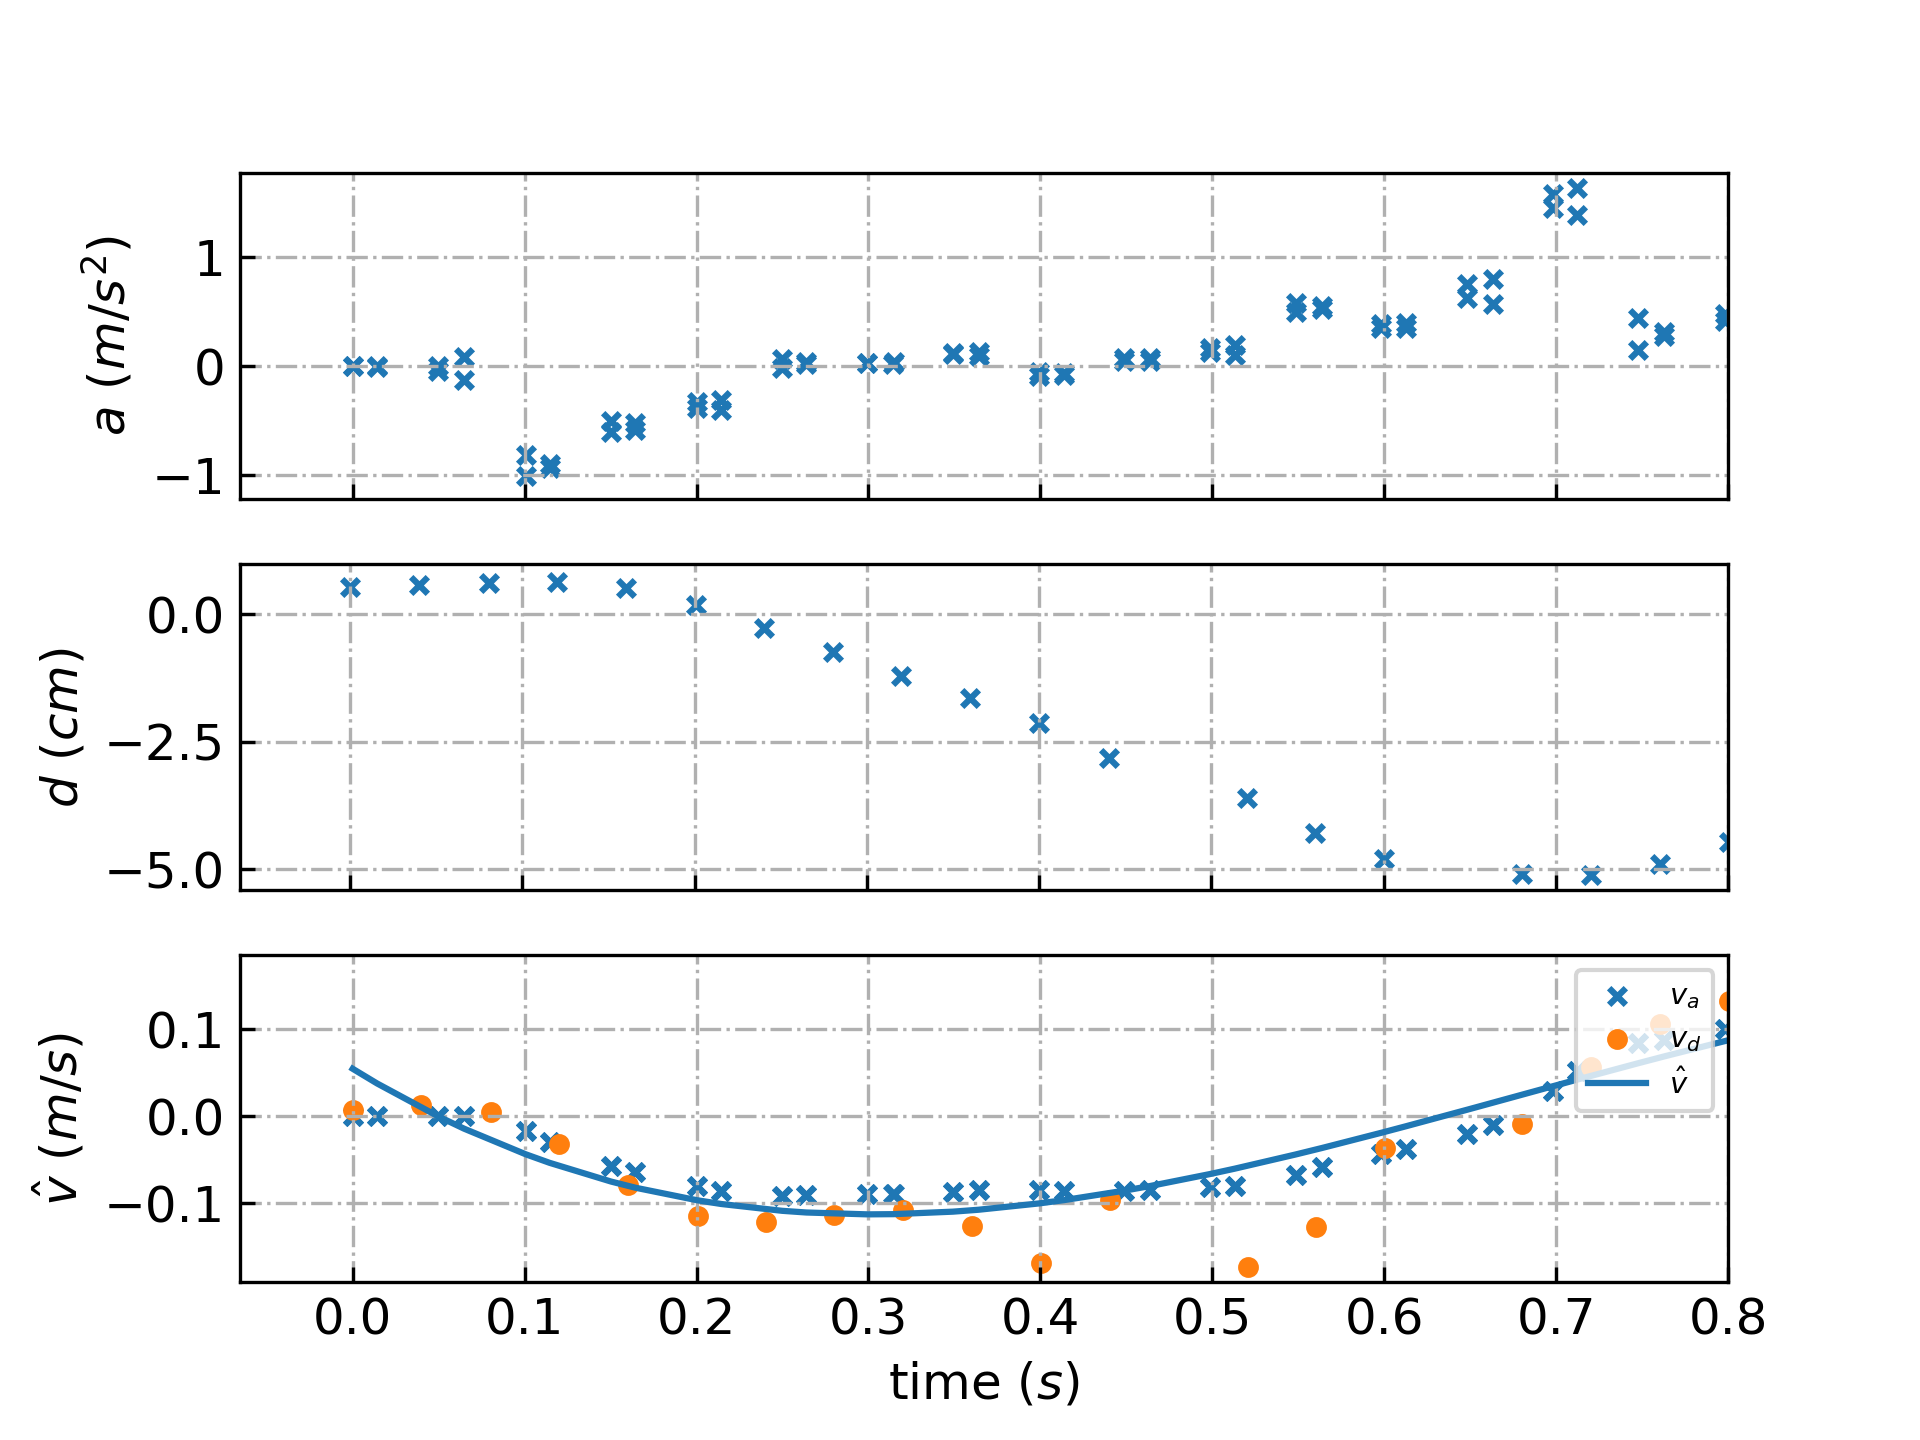
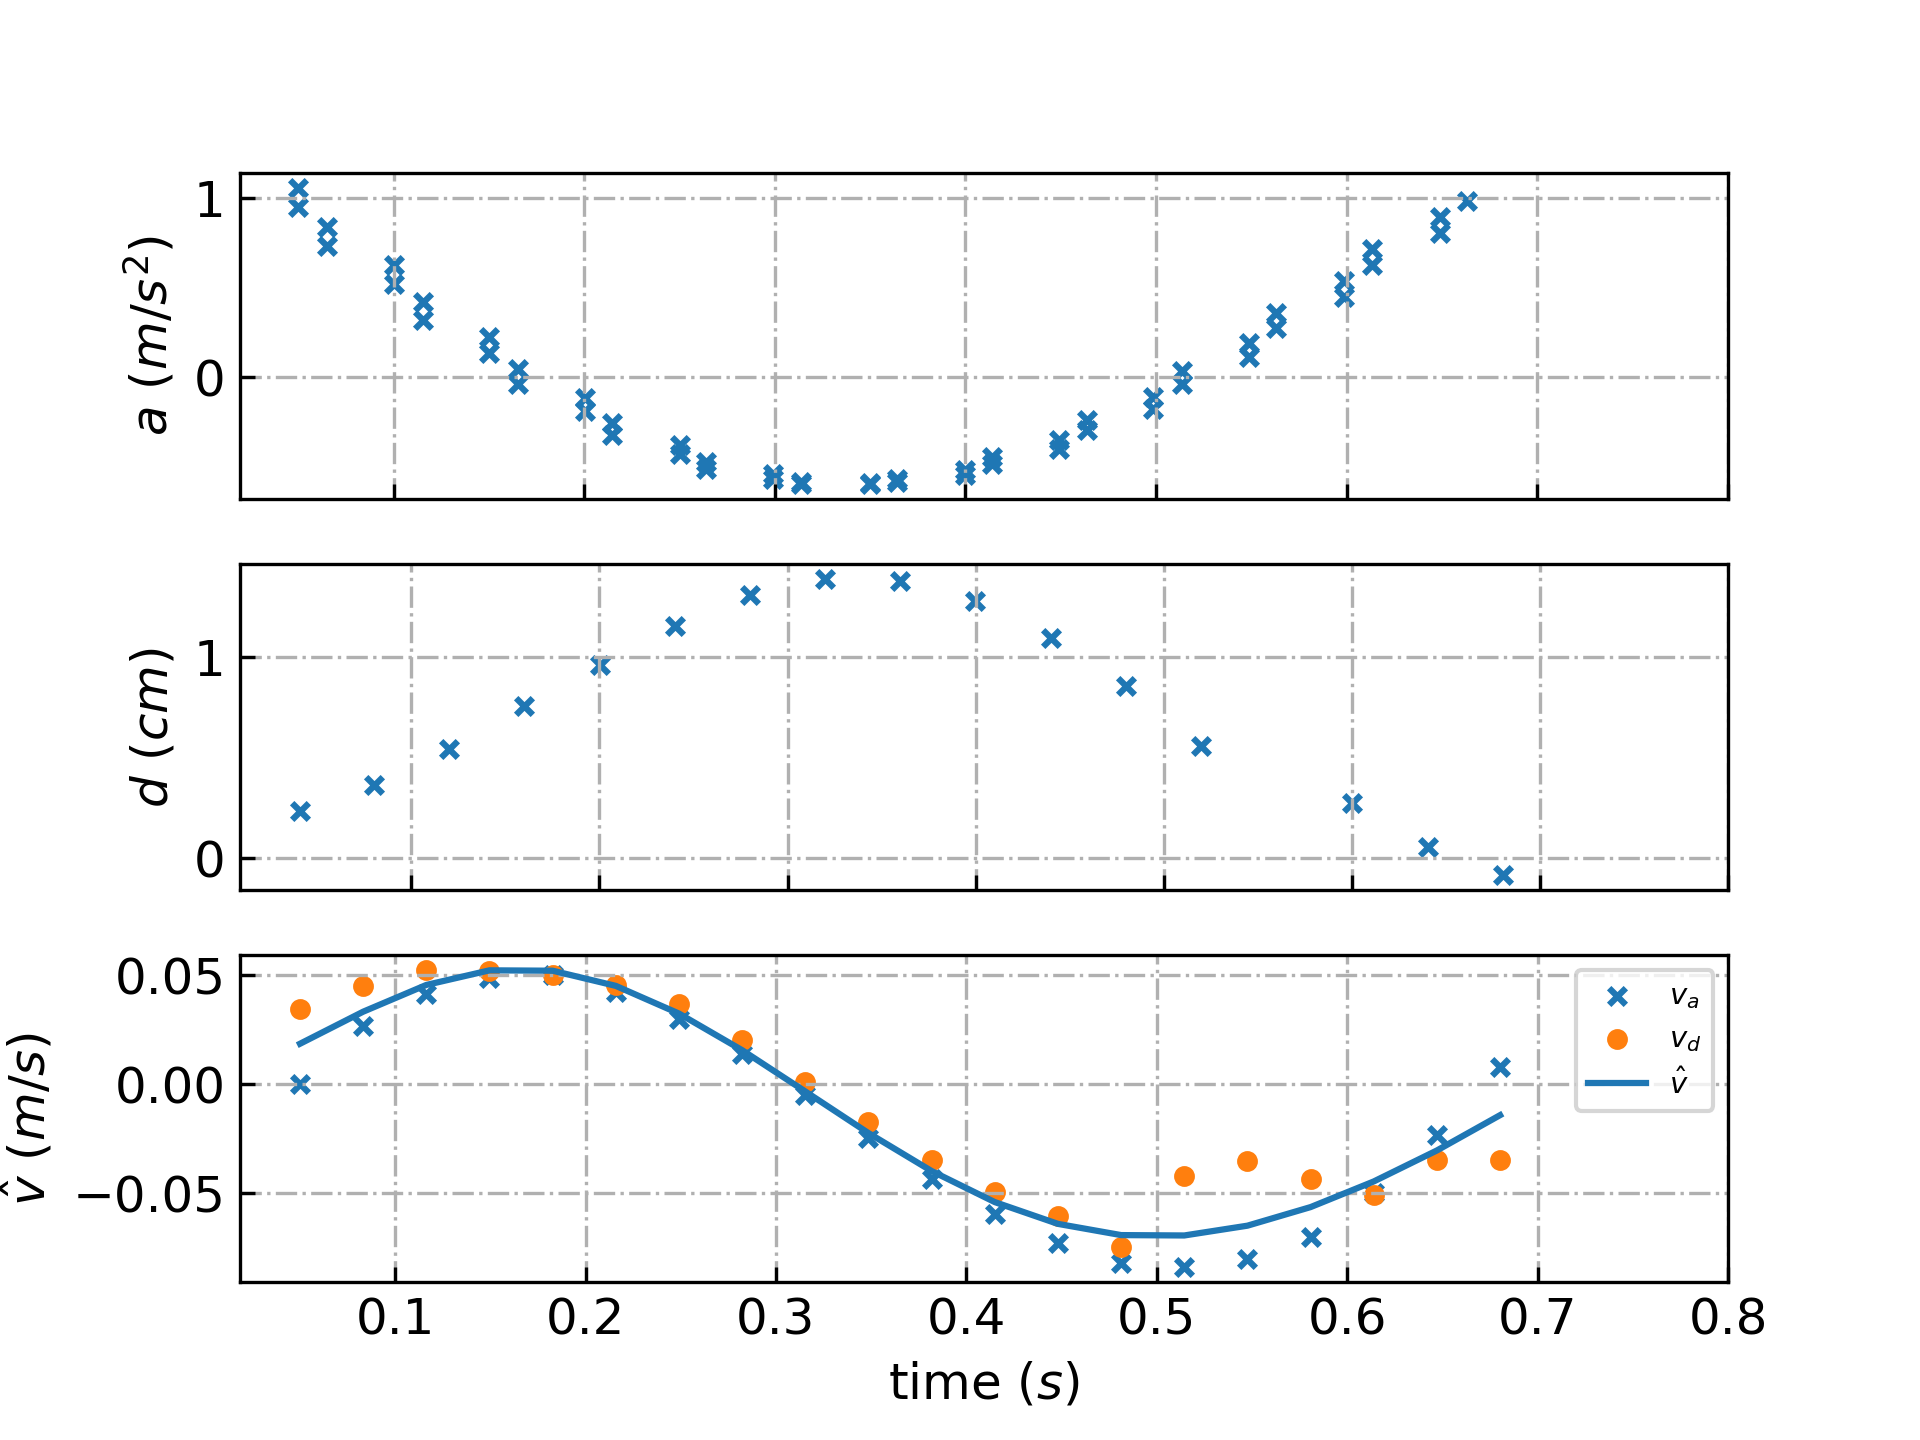
finalized data plotting

diff --git a/scripts/velocity_calc_mod.py b/scripts/velocity_calc_mod.py
@@ -126,7 +126,7 @@ class velocity_calc:
         markerSize = 4**2
         xLimRight = 0.8
         gridStyle = "dashdot"
-        saveFl = False
+        saveFl = True
         plt.rc('font', size=12)
         global axs
         fig, axs = plt.subplots(3)
@@ -134,12 +134,12 @@ class velocity_calc:
         for idx, i, label in zip(range(len(data)),data,labels):
             if "velocity" in label:
                 if count == 0:
-                    # axs[2].scatter([x[0] for x in i], [x[1] for x in i], label=r'$v_a$', marker="x", s=markerSize)
-                    axs[2].plot([x[0] for x in i], [x[1] for x in i], label=r'$v_a$', markersize=2)
+                    axs[2].scatter([x[0] for x in i], [x[1] for x in i], label=r'$v_a$', marker="x", s=markerSize)
+                    # axs[2].plot([x[0] for x in i], [x[1] for x in i], label=r'$v_a$', markersize=2)
                     count+=1
                 elif count == 1:
-                    # axs[2].scatter([x[0] for x in i], [x[1] for x in i], label=r'$v_d$', marker="o", s=markerSize)
-                    axs[2].plot([x[0] for x in i], [x[1] for x in i], label=r'$v_d$', markersize=2)
+                    axs[2].scatter([x[0] for x in i], [x[1] for x in i], label=r'$v_d$', marker="o", s=markerSize)
+                    # axs[2].plot([x[0] for x in i], [x[1] for x in i], label=r'$v_d$', markersize=2)
                     count+=1
                 else:
                     axs[2].plot([x[0] for x in i], [x[1] for x in i], label=r'$\hat{v}$', markersize=2)
@@ -219,22 +219,22 @@ class velocity_calc:
         pos = self.extractData("pos", self.data)
         acc = self.extractData("acc", self.data)
         
-        pos = pos[1:-3]
+        pos = pos[1:-2]
         pos_tstamp = [x[0] for x in pos]
-        acc = acc[5:-12]
+        acc = acc[4:-13]
         acc_tstamp = [x[0] for x in acc]
         
         # displacement processing to get velocity
         T_pos = [x[0] for x in pos][-1]        # Sample period
         fs_pos = 25          # Accelerometer sampling rate, Hz
-        cutoff_pos = 5       # desired cutoff frequency of the filter, Hz, slightly higher than actual 30 Hz 
+        cutoff_pos = 2       # desired cutoff frequency of the filter, Hz, slightly higher than actual 30 Hz 
         order_pos = 2         # butterworth filter order
         n_pos = int(T_pos * fs_pos)   # total number of samples
         
         pos_tbf = [x[1]*-self.alpha for x in pos]
         filtered_pos = self.butter_lowpass_filter(pos_tbf, cutoff_pos, fs_pos, order_pos, n_pos)
         pos_savgol = savgol_filter(filtered_pos, winSize, 3, mode='nearest')
-        pos_plot = [[i,j] for i,j in zip(pos_tstamp[:n_pos], filtered_pos)]
+        pos_plot = [[i,j] for i,j in zip(pos_tstamp[:n_pos], pos_savgol)]
         pos_savgol_fn = InterpolatedUnivariateSpline(pos_tstamp[:n_pos], pos_savgol, k=1)
         
         # acceleration processing to get velocity
@@ -258,11 +258,12 @@ class velocity_calc:
         vel_pos_plot = [[i,j] for i,j in zip(sampled_tstamp, vel_pos)]
         vel_acc = self.get_velocity_facc(sampled_tstamp, [x for x in acc_savgol_fn(sampled_tstamp)])
         vel_acc_plot = [[i,j] for i,j in zip(sampled_tstamp, vel_acc)]
+        # print(len(np.array(list(sampled_tstamp)+list(sampled_tstamp))))
         
         # ploting data
-        # est_model = np.poly1d(np.polyfit(np.array(sampled_tstamp+sampled_tstamp), np.array(vel_acc+vel_pos), 6))
-        est_model = savgol_filter(vel_pos+vel_acc, winSize+8, 3, mode='nearest')
-        vel_est_plot = [[i,j] for i,j in zip(sampled_tstamp, est_model)]
+        est_model = np.poly1d(np.polyfit(np.array(list(sampled_tstamp)+list(sampled_tstamp)), np.array(vel_acc+vel_pos), 6))
+        # est_model = savgol_filter(vel_pos+vel_acc, winSize+8, 3, mode='nearest')
+        vel_est_plot = [[i,j] for i,j in zip(sampled_tstamp, est_model(sampled_tstamp))]
         self.plot([acc_plot[:], pos_plot[:], vel_acc_plot[:], vel_pos_plot[:], vel_est_plot[:]], [r"$a~(m/s^2)$", r"$d~(cm)$", "velocity_acc", "velocity_pos", "velocity_estimate"])
 
 if __name__=="__main__":
